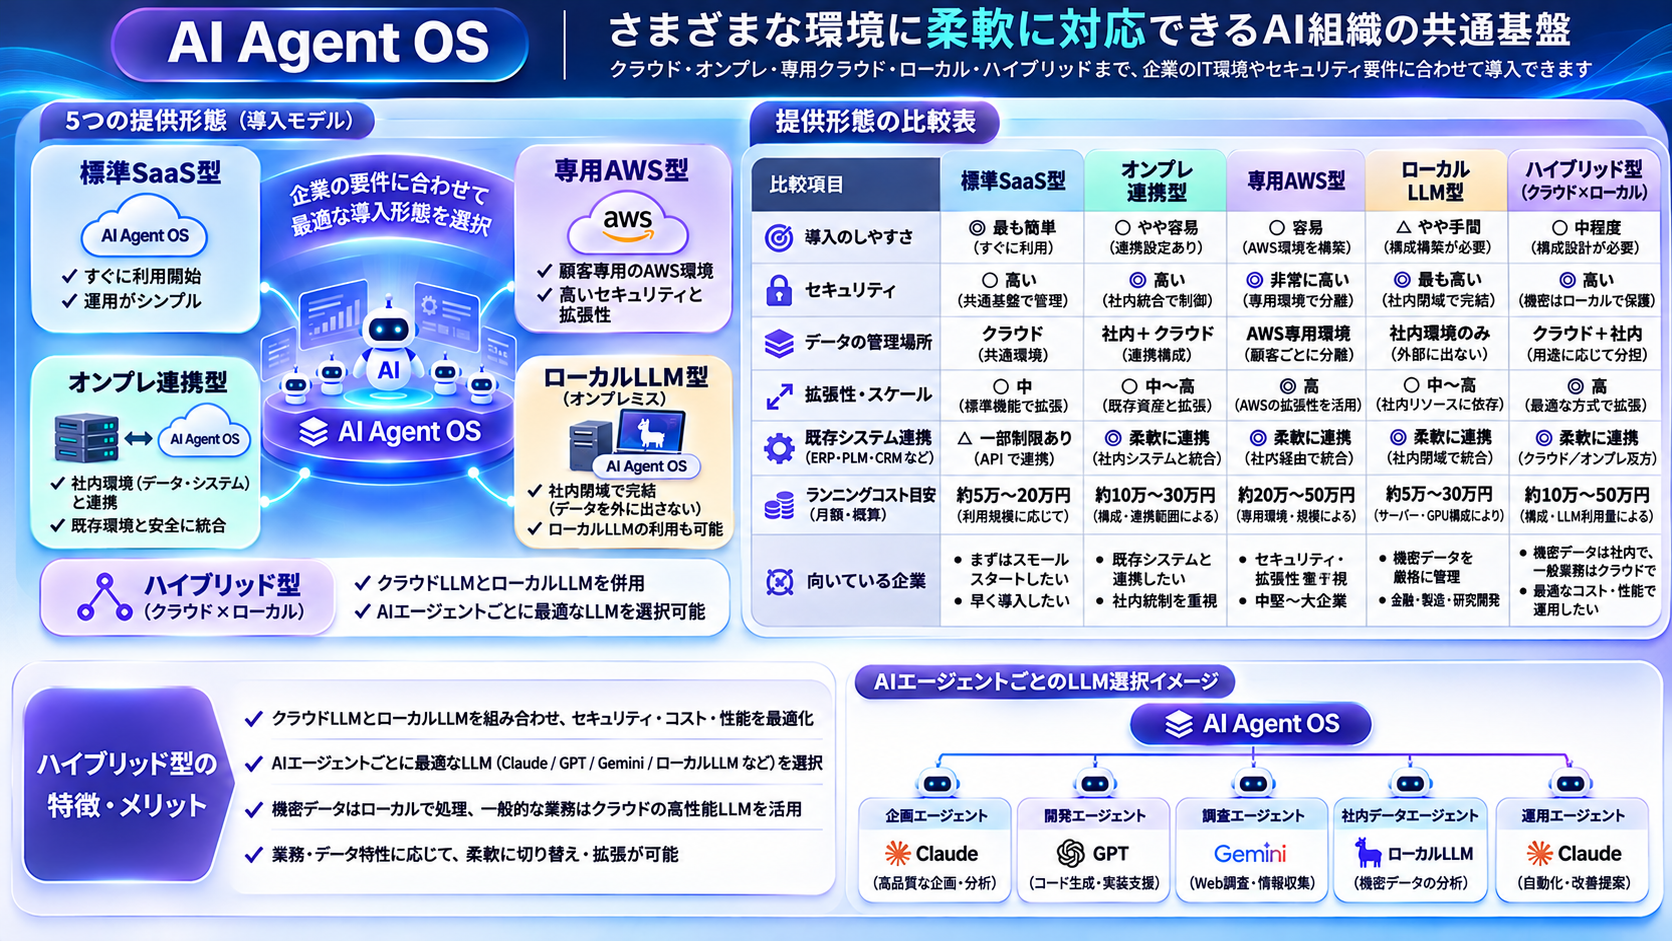
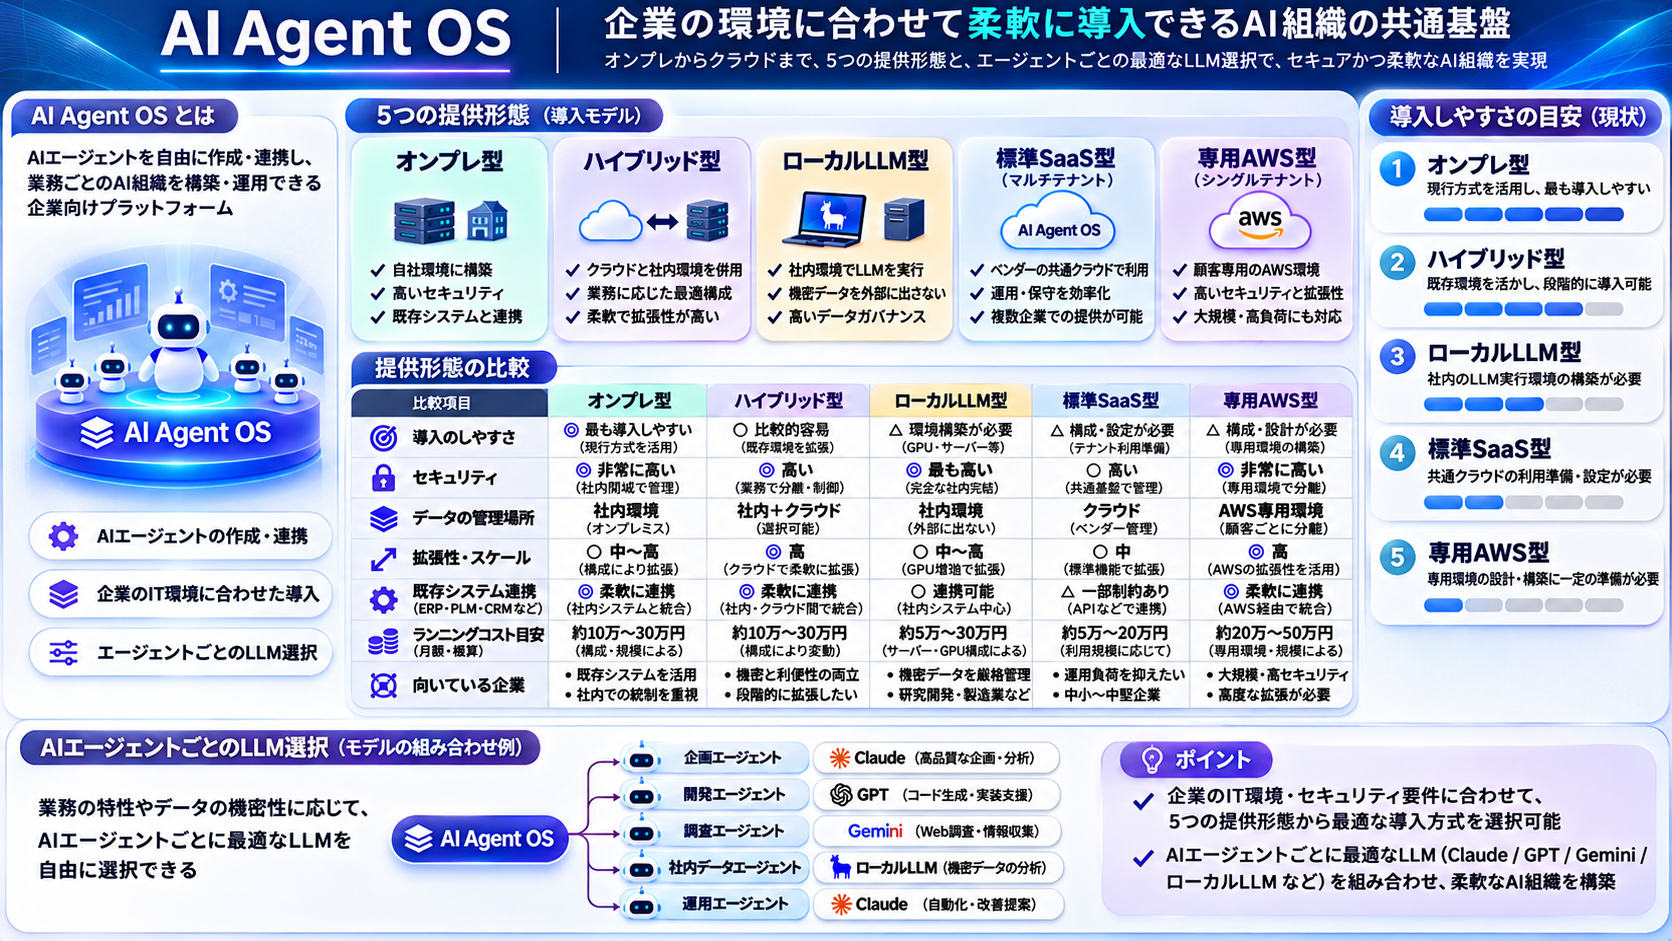
提供形態セクションの画像・文言を修正（標準SaaS型が即対応という誤った表現を是正）

diff --git a/ai-agent-os.html b/ai-agent-os.html
@@ -638,9 +638,9 @@ img{max-width:100%}
   <div class="wrap">
     <div class="sec-tag">DEPLOYMENT</div>
     <h2 class="sec-title">企業のニーズに合わせた構成で構築できます</h2>
-    <p class="sec-lead">標準でご提供するのは、すぐに使える標準SaaS型です。社内システムとの連携やセキュリティ要件、機密データの扱いに応じて、オンプレ連携型・専用AWS型・ローカルLLM型・ハイブリッド型といった構成へのカスタマイズにも、個別のご相談のうえ対応します。</p>
-    <img src="fig_agentos_deployment_models.png" alt="AI Agent OSの5つの提供形態（導入モデル）の比較。標準SaaS型・オンプレ連携型・専用AWS型・ローカルLLM型・ハイブリッド型（クラウド×ローカル）を、導入のしやすさ・セキュリティ・データの管理場所・拡張性・既存システム連携・ランニングコスト目安で比較する表と、AIエージェントごとにClaude/GPT/Gemini/ローカルLLMなど最適なLLMを選択するイメージ図" class="fig" loading="lazy" width="1672" height="941" style="margin-top:28px">
-    <p class="prose" style="margin-top:20px">比較表のランニングコストは構成の目安であり、確定額ではありません。実際の費用・構成は、現在の環境やセキュリティ要件をヒアリングしたうえでご案内します。</p>
+    <p class="sec-lead">企業のIT環境・セキュリティ要件に応じて、オンプレ型・ハイブリッド型・ローカルLLM型・標準SaaS型（マルチテナント）・専用AWS型（シングルテナント）の5つの提供形態から、最適な導入方式を選んで構築できます。いずれも個別のご相談のうえカスタマイズして対応する形態で、現状でもっとも導入しやすいのは既存環境を活かせるオンプレ型です。</p>
+    <img src="fig_agentos_deployment_models.png" alt="AI Agent OSの5つの提供形態（導入モデル）の比較。オンプレ型・ハイブリッド型・ローカルLLM型・標準SaaS型（マルチテナント）・専用AWS型（シングルテナント）を、導入のしやすさ・セキュリティ・データの管理場所・拡張性・既存システム連携・ランニングコスト目安で比較する表。右側に現状の導入しやすさの目安（1位オンプレ型・2位ハイブリッド型・3位ローカルLLM型・4位標準SaaS型・5位専用AWS型）、下部にAIエージェントごとにClaude/GPT/Gemini/ローカルLLMなど最適なLLMを選択するイメージ図" class="fig" loading="lazy" width="1672" height="941" style="margin-top:28px">
+    <p class="prose" style="margin-top:20px">比較表のランニングコスト・導入しやすさの目安は、現状での参考値です。実際の費用・構成は、現在の環境やセキュリティ要件をヒアリングしたうえでご案内します。</p>
   </div>
 </section>
 
